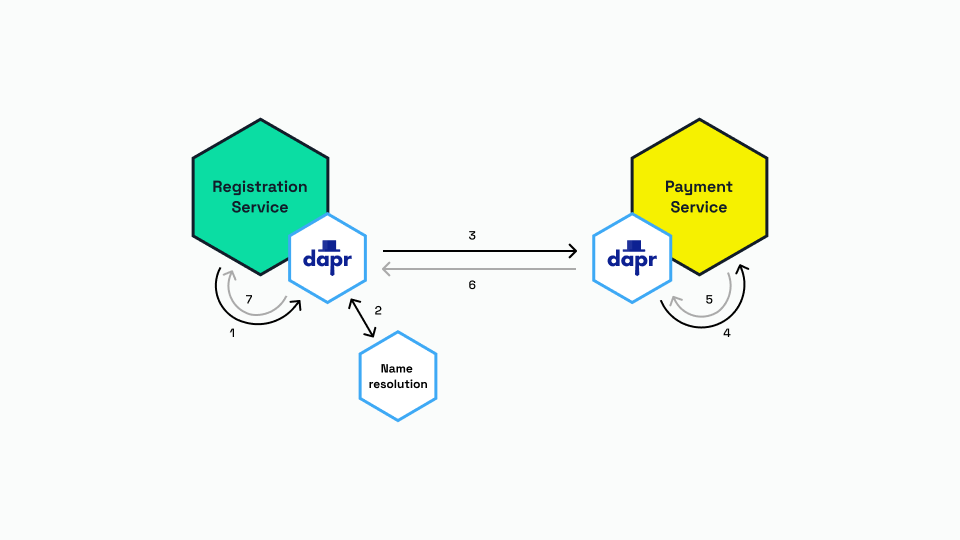
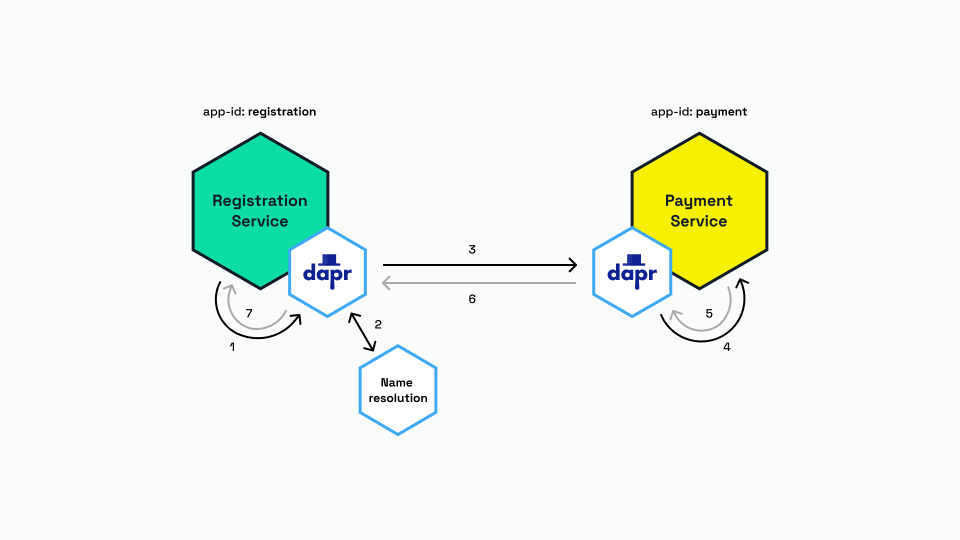
Add app-id

Changed region(s): [[0.1875, 0.3259, 0.8125, 0.8], [0.6562, 0.1778, 0.8125, 0.3259], [0.1875, 0.1778, 0.3438, 0.3259]]

diff --git a/README.md b/README.md
@@ -33,7 +33,7 @@ Wait until all dependencies are installed.
 
 ## Synchronous messaging
 
-Dapr services can communicate with each other using synchronous messaging. This is known as service-to-service invocation using a request/response model over HTTP or GRPC. Service A uses the DApr API to post a request. First this request arrives at the Dapr sidecar of service A. The sidecar will perform a name resolution to find out where the destination Dapr sidecar is for service B. The service A sidecar then forwards the request to the sidecar of service B which in turn delivers the request to service B itself. The response from service B flows through the sidecars back to service A.
+Dapr services can communicate with each other using synchronous messaging. This is known as service-to-service invocation using a request/response model over HTTP or GRPC. Service A uses the Dapr API to post a request and uses the app-id to identify the receiving service. First this request arrives at the Dapr sidecar of service A. The sidecar will perform a name resolution to find out where the receiving Dapr sidecar is for service B. The service A sidecar then forwards the request to the sidecar of service B which in turn delivers the request to service B itself. The response from service B flows through the sidecars back to service A.
 
 The following diagram shows the flow of a synchronous request/response between two Dapr services, a Registration service and a Payment service:
 
